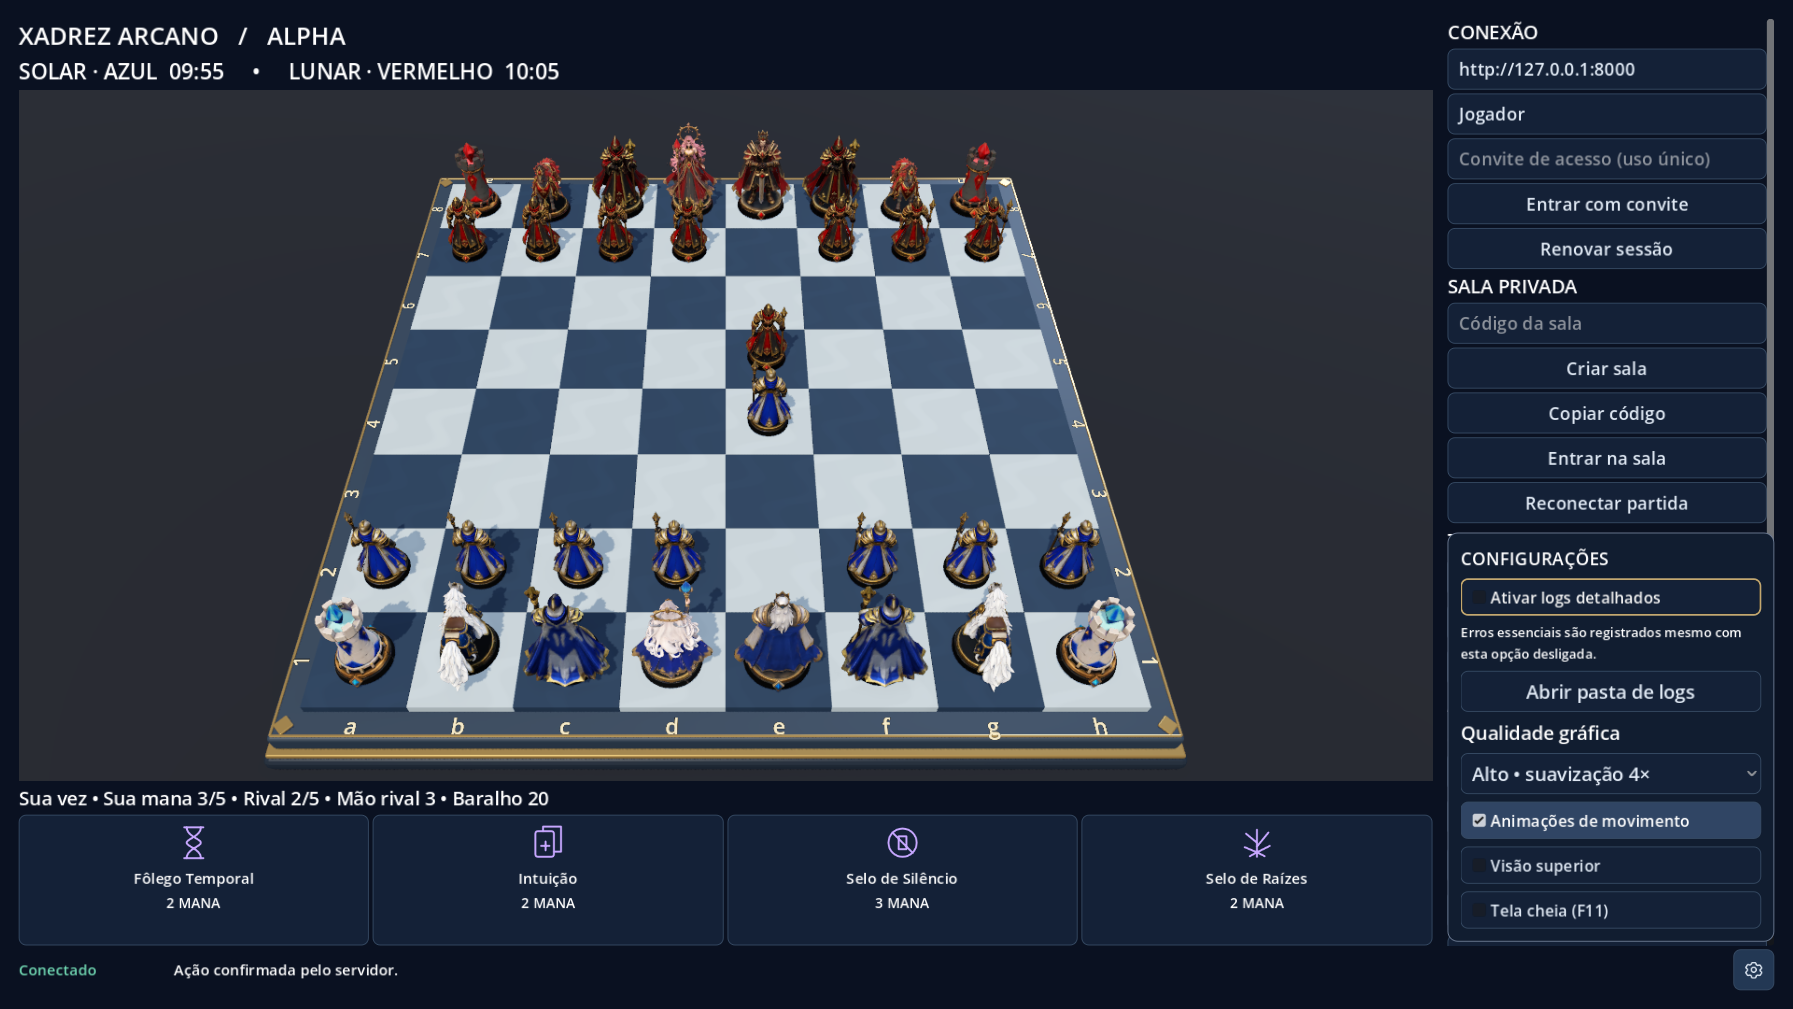
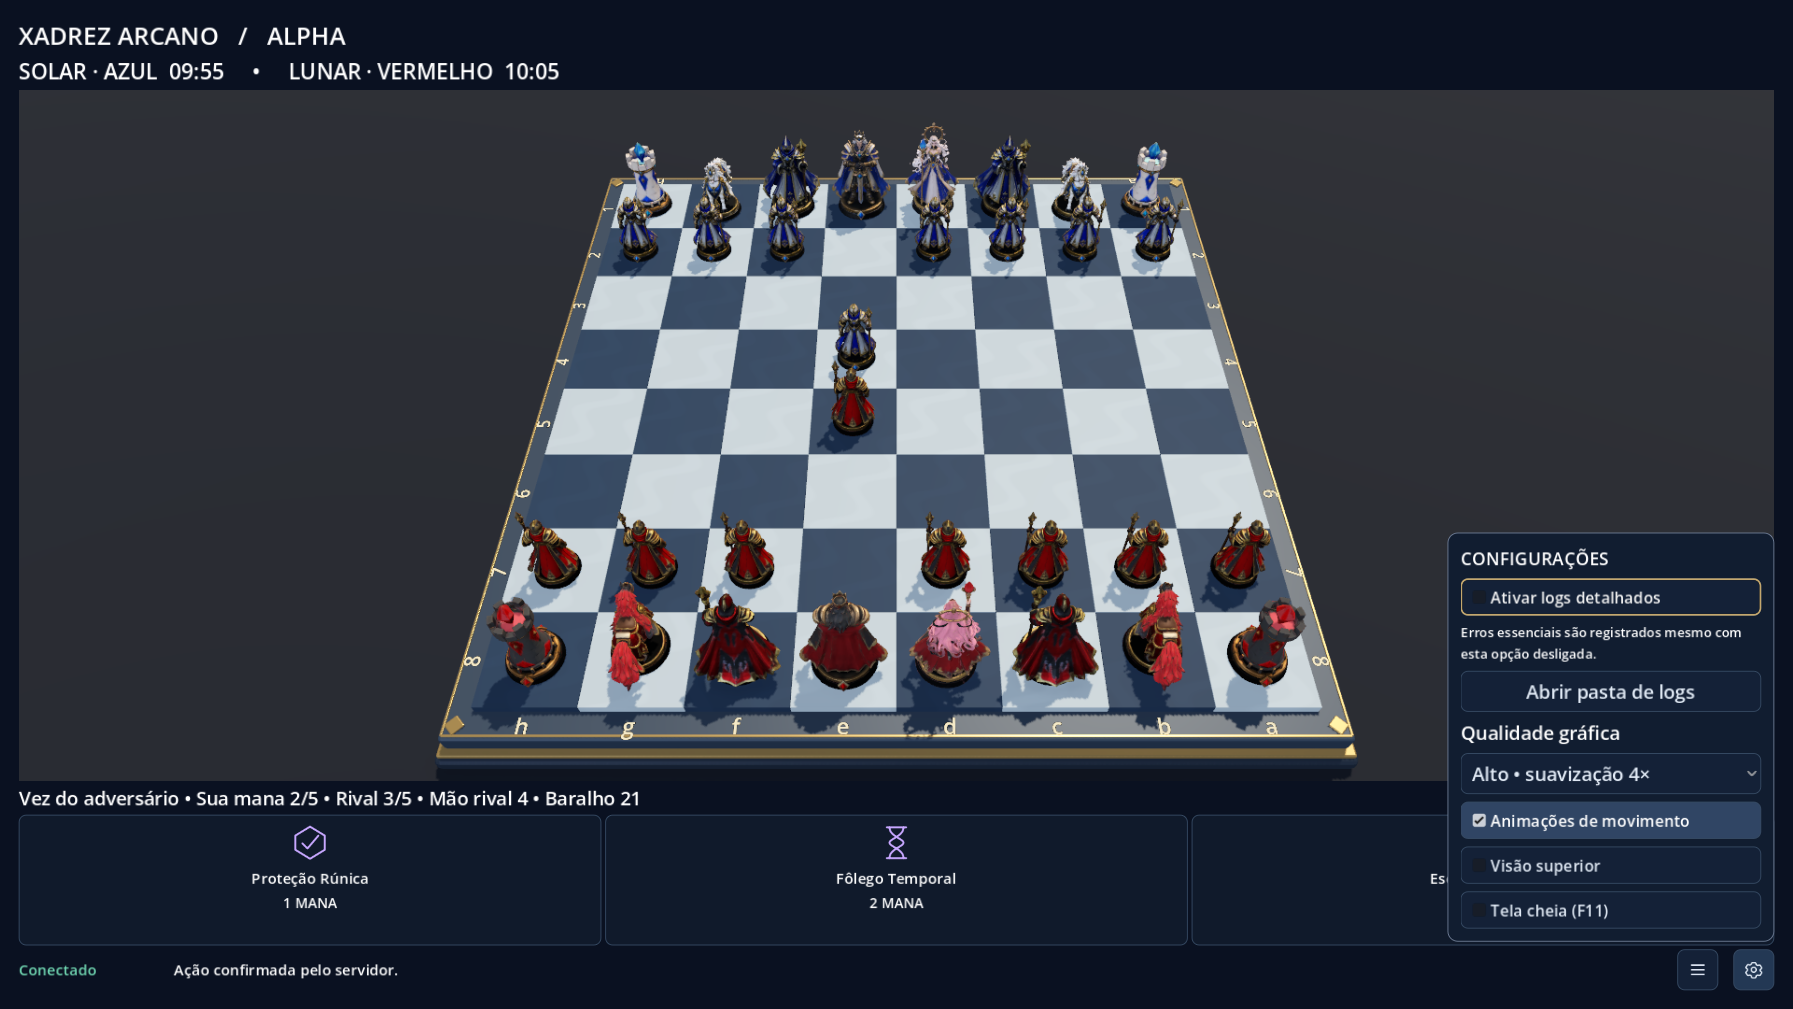
feat: adiciona barra lateral recolhivel pelo menu

diff --git a/tools/smoke_clients.py b/tools/smoke_clients.py
@@ -53,6 +53,7 @@ def main():
             "expected_version": 2,
             "wait_for_version": 0 if side == "white" else 1,
             "show_settings": args.show_settings,
+            "sidebar_visible": side == "white",
             "reconnect": args.reconnect,
             "move": "e2e4" if side == "white" else "e7e5",
         }
@@ -79,6 +80,7 @@ def main():
         assert result.returncode == 0 and int(report["state_version"]) >= 2
         assert report["connection_state"] == "connected"
         assert report["pending_count"] == 0
+        assert report["sidebar_visible"] == (side == "white")
         if args.reconnect:
             assert report["replayed_request_id"]
         assert "SCRIPT ERROR" not in result.stderr and "ERROR:" not in result.stderr

diff --git a/README.md b/README.md
@@ -38,6 +38,7 @@ Para apenas iniciar o backend: `./tools/Start-Dev.ps1`. Para abrir um cliente: `
 - Clique numa carta, escolha o alvo no tabuleiro e confirme **Conjurar**. Cartas pessoais usam alvo automático. Dissipação exige escolher qual efeito remover.
 - Faça o movimento depois da carta. Existe uma única conjuração por turno.
 - Botão direito arrastado gira a câmera; roda do mouse aproxima; há opção de visão superior.
+- O botão **☰**, ao lado da engrenagem no rodapé, mostra ou oculta toda a barra lateral (conexão, salas, tutorial, ações, histórico e catálogo). Ela começa oculta; sua escolha é salva por perfil. Ao recolher, o tabuleiro e as cartas ocupam o espaço liberado.
 - A qualidade alta usa o renderizador Forward+, suavização 4×, sombras e oclusão ambiente. Na **engrenagem do canto inferior direito**, as opções Médio e Baixo reduzem esses efeitos. O mesmo menu reúne animações, visão superior e tela cheia.
 - O tutorial ensina movimento, defesa e armadilha usando cenários do servidor.
 - O relógio continua durante animações, escolhas e desconexões individuais. Falha/reinício do servidor anula partidas em andamento.

diff --git a/docs/STATUS.md b/docs/STATUS.md
@@ -18,6 +18,7 @@
 - 43 testes do servidor aprovados, incluindo captura segura de logs, sockets reais e dois escritores concorrentes no PostgreSQL. Ruff aprovado.
 - Correções de interação: mundo 3D explícito e consultas físicas no processamento de física; regressões por cliques nos dois lados, com rotação de câmera e redimensionamento.
 - Indicador de conexão separado das ações, confirmação pelo primeiro snapshot, prazo de 10 segundos e três reconexões automáticas; reenvio mantém o identificador do comando.
+- Barra lateral recolhível pelo botão ☰ ao lado da engrenagem, inicialmente oculta, com preferência por perfil e preservação de campos, seleção e rolagem; regressões de cliques com ambos os layouts.
 - Engrenagem no rodapé com logs detalhados como primeiro checkbox; preferências locais separadas das sessões, qualidade, animações, visão superior e tela cheia.
 - Logs estruturados do cliente com captura de erros de scripts, rotação, proteção de dados e escrita concorrente; inicializador e servidor também possuem registros operacionais.
 

diff --git a/docs/ASSETS.md b/docs/ASSETS.md
@@ -8,6 +8,7 @@
 - Miniaturas procedurais anteriores: gerador preservado em `tools/generate_models.py`, agora com saída em `.runtime/prototype-models`, fora dos recursos do jogo.
 - Doze símbolos de cartas `.svg`: desenhos vetoriais originais de `tools/generate_card_icons.py`.
 - Engrenagem de configurações: desenho vetorial original em `client-godot/assets/ui/gear.svg`.
+- Ícone de três riscos da barra lateral: desenho vetorial original em `client-godot/assets/ui/menu.svg`.
 - Moldura do tabuleiro: geometria original com bordas arredondadas e incrustações de latão, gerada por `tools/generate_board.py` em `client-godot/assets/board/frame.glb` com Blender 4.5.3 LTS.
 - Casas do tabuleiro: geometria interativa Godot com acabamento procedural de pedra em `client-godot/assets/board/stone.gdshader`. Materiais, interface e efeitos: código do projeto.
 - `Xadrez mágico em estilo anime.png`: referência fornecida pelo proprietário; não incorporada ao executável.
